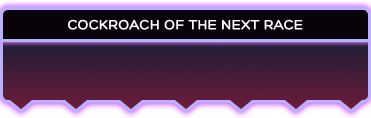
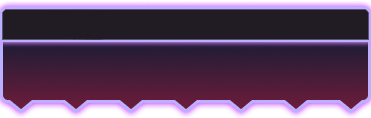
правка текста секция 3

Changed region(s): [[0.0, 0.0763, 1.0, 0.3559]]

diff --git a/frontend/app.vue b/frontend/app.vue
@@ -34,6 +34,9 @@
     />
     
     <div class="menu-container">
+      <div class="win-menu-title">
+        {{ t('who_reaches_section') }}
+      </div>
        <div v-if="raceInProgress" class="next-race-notice">
       {{ t('next_round_bet') }}
     </div>
@@ -2778,6 +2781,22 @@ const getButtonStyle = (btn) => {
   z-index: 10; /* Поверх изображения меню */
    border: 1px solid red !important;
    
+}
+.win-menu-title {
+  position: absolute;
+  top: 32.5%; /* Позиционирование сверху */
+  left: 0;
+  right: 0;
+  text-align: center;
+  font-family: 'Hero', 'Bahnschrift', sans-serif; /* Основной шрифт + fallback */
+  font-weight: 700; /* Bold */
+  font-size: 15px;
+  line-height: 1; /* 100% */
+  color: #FFFFFF; /* Белый цвет текста */
+  text-transform: uppercase; /* Все заглавные */
+  z-index: 12; /* Поверх других элементов */
+  text-shadow: 0 0 5px rgba(0, 0, 0, 0.8); /* Тень для лучшей читаемости */
+  padding: 0 20px; /* Защита от краев */
 }
 
 /* Стиль кнопки таракана */
